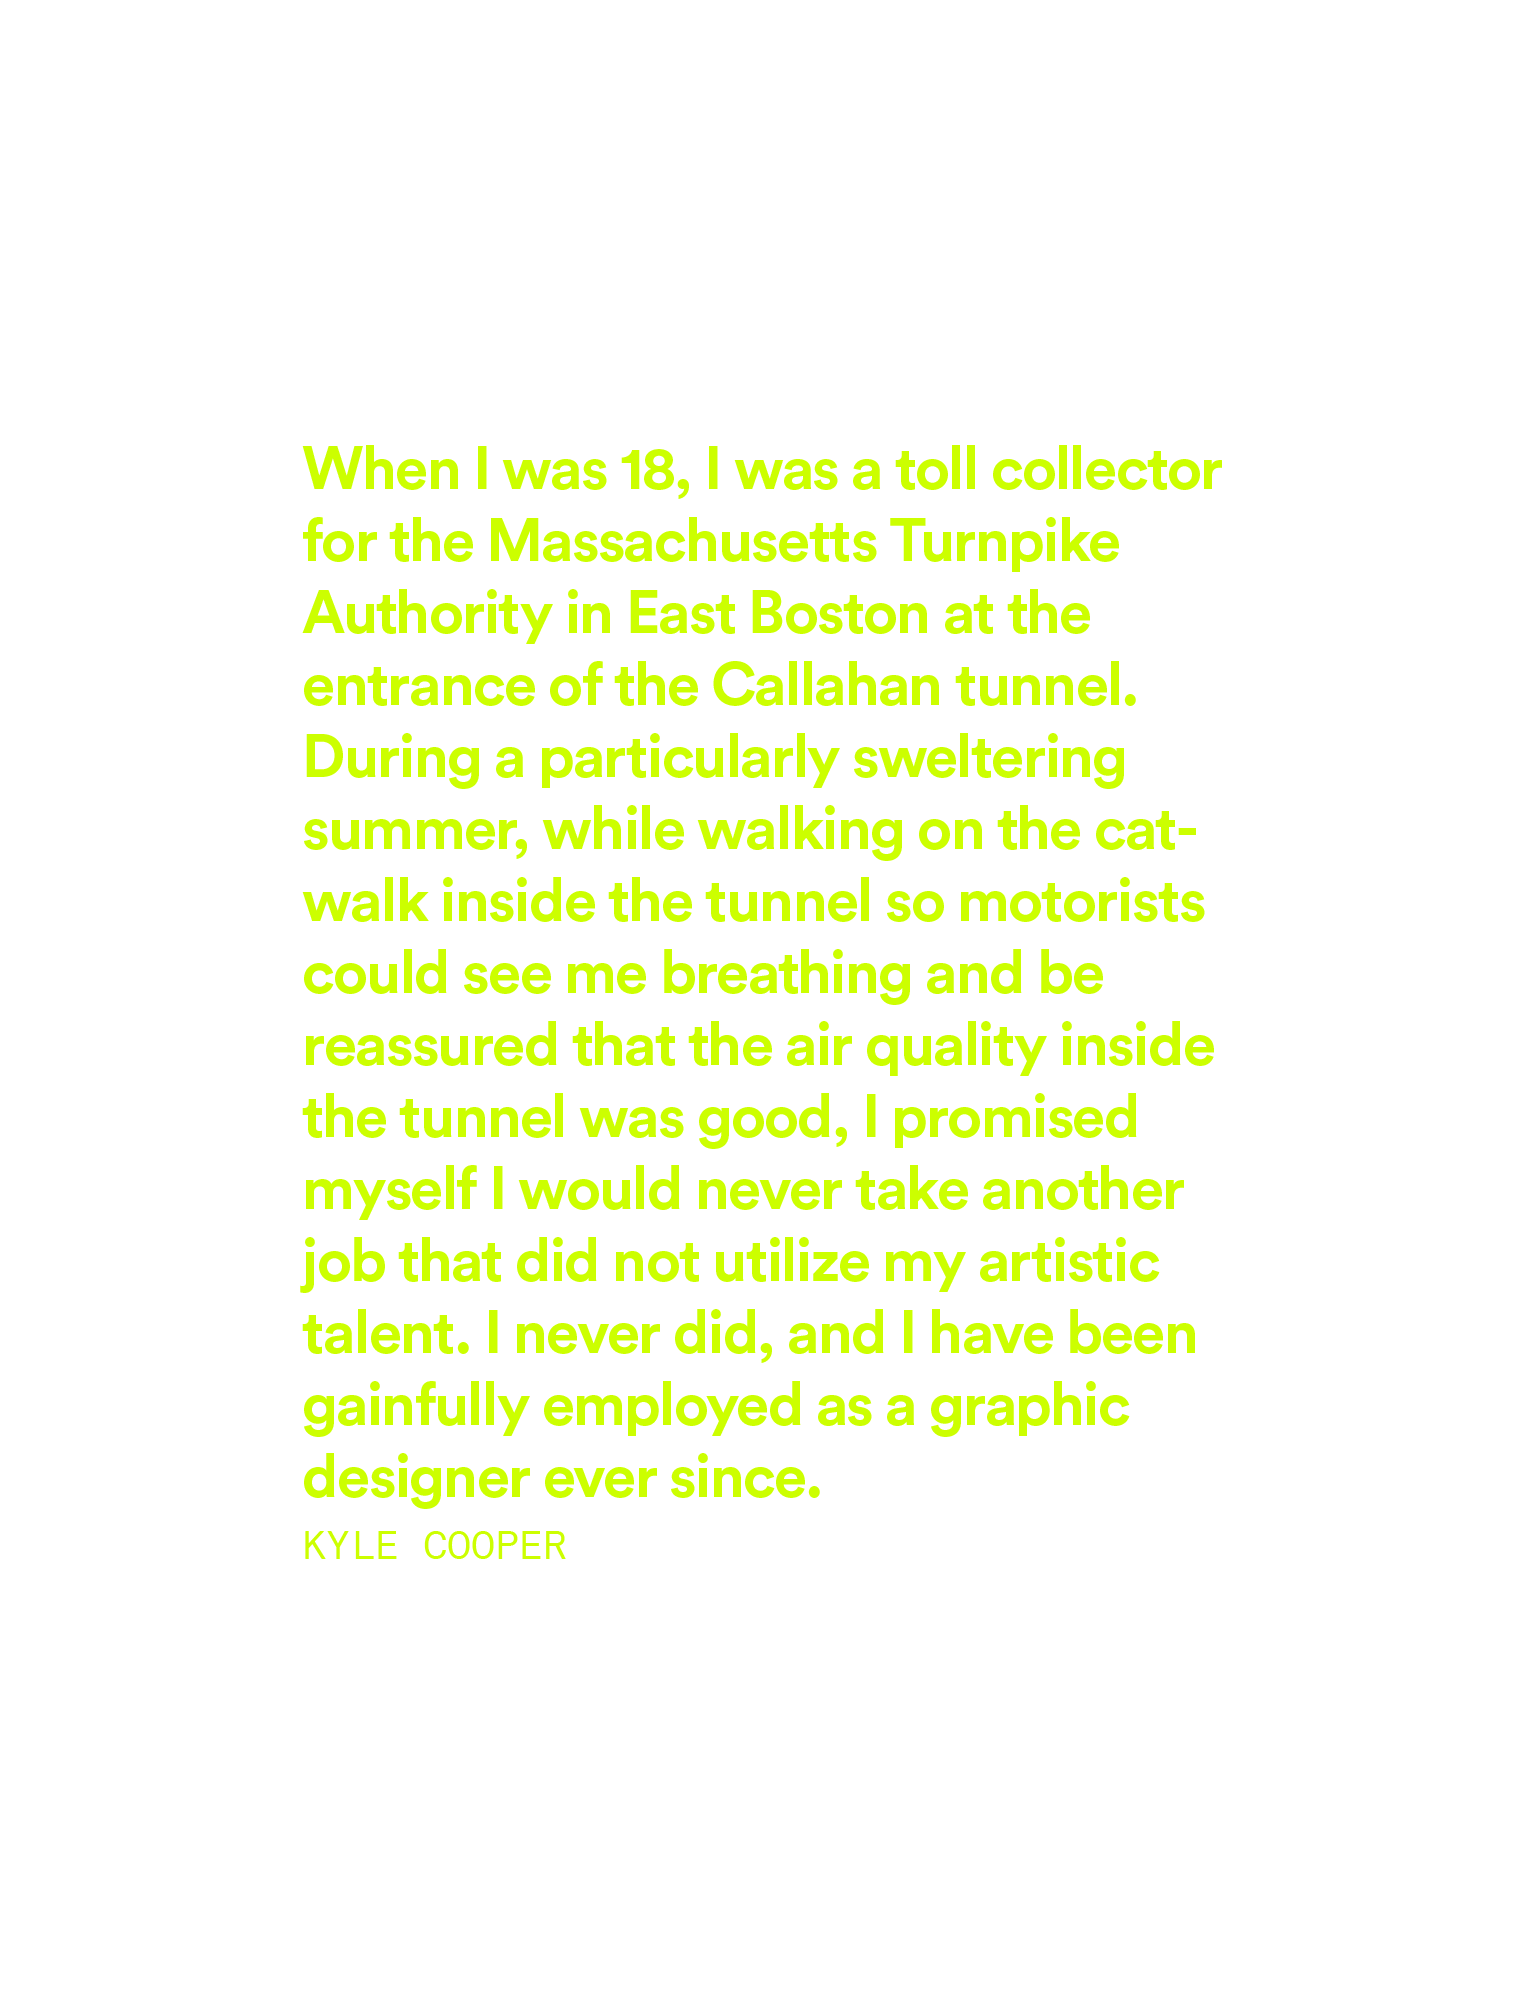
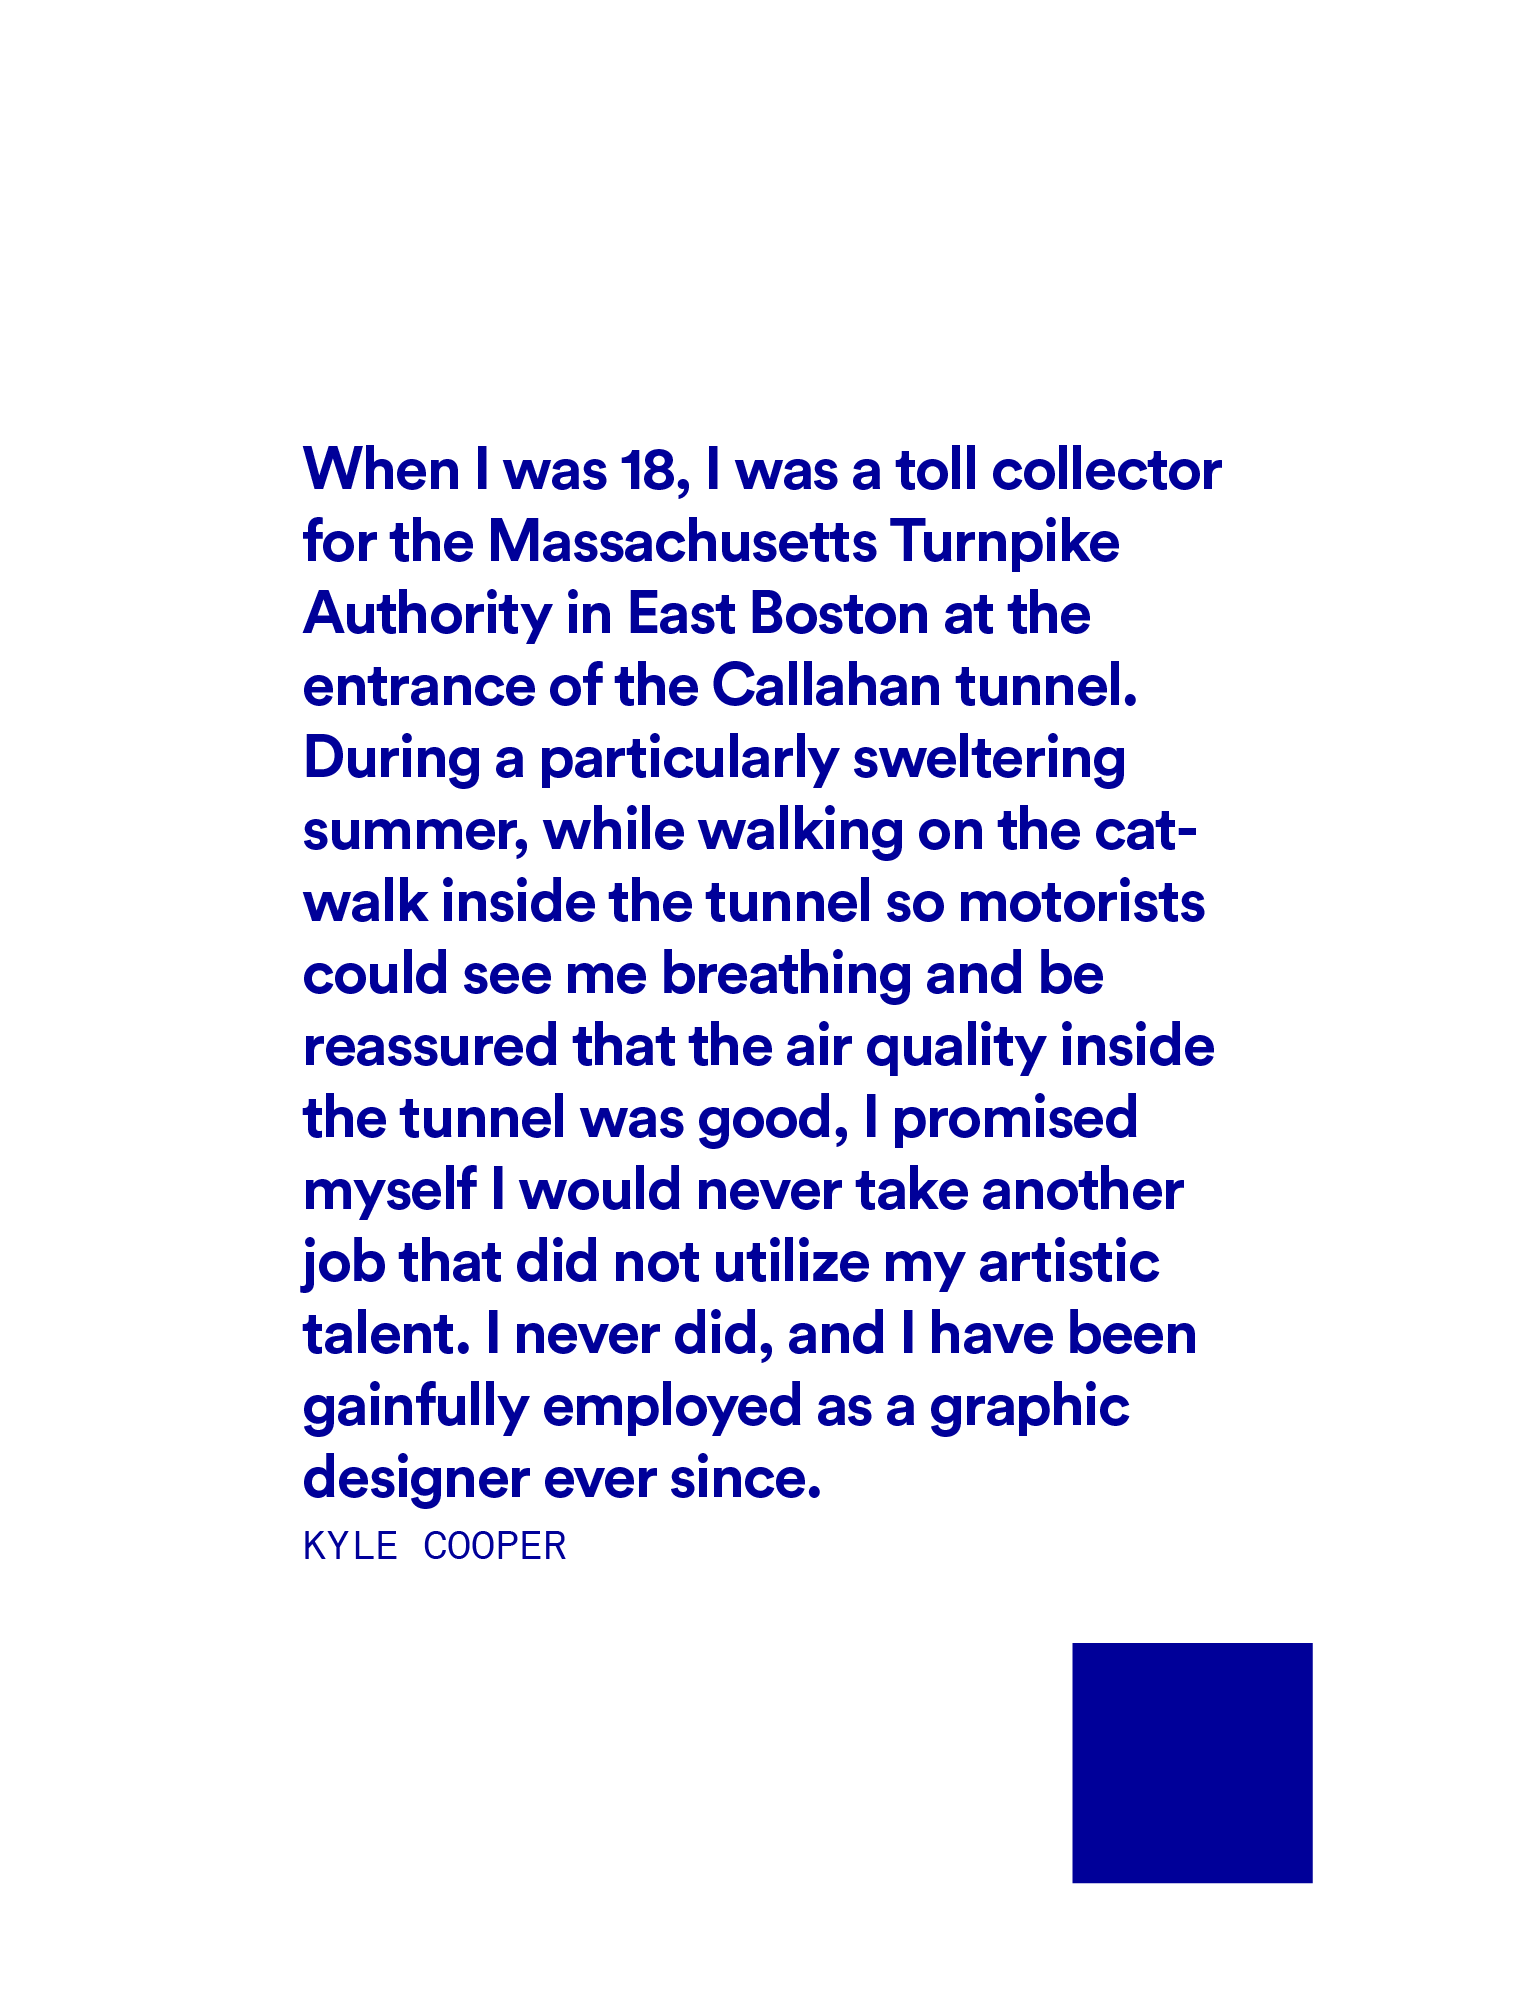
Updated colors

Changed region(s): [[0.1875, 0.2161, 0.8125, 0.7719], [0.6875, 0.8028, 0.875, 0.9572]]

diff --git a/Web/js/main.js b/Web/js/main.js
@@ -63,19 +63,19 @@ $(document).ready( function() {
 			{ r:255, g:108, b:12 , h:255 },
 			{ r:255, g:102, b:255 , h:0 },
 			{ r:102, g:0, b:102 , h:255 },
-			{ r:204, g:255, b:0 , h:0 },
+			{ r:0, g:0, b:153 , h:0 },
 			{ r:247, g:50, b:63 , h:255 },
 			{ r:0, g:255, b:51 , h:0 },
 			{ r:0, g:0, b:255 , h:255 },
 			{ r:0, g:204, b:204 , h:0 },
 			{ r:255, g:0, b:0 , h:255 },
-			{ r:255, g:255, b:0 , h:0 },
+			{ r:102, g:0, b:255 , h:0 },
 			{ r:255, g:0, b:102 , h:255 },
 			{ r:255, g:0, b:153 , h:0 },
 			{ r:0, g:51, b:102 , h:255 },
-			{ r:211, g:210, b:210 , h:0 },
+			{ r:158, g:158, b:158 , h:0 },
 			{ r:102, g:0, b:51 , h:255 },
-			{ r:0, g:255, b:255 , h:0 },
+			{ r:255, g:51, b:0 , h:0 },
 			{ r:51, g:102, b:255 , h:255 },
 			{ r:0, g:255, b:204 , h:0 },
 			{ r:0, g:153, b:0 , h:255 }

diff --git a/Web/css/style.css b/Web/css/style.css
@@ -183,7 +183,7 @@ html, body {
 }
 
 .quoteiPad {
-	height:1620px;
+	/*height:1620px;*/
 }
 
 .quoteInner {

diff --git a/Shared/ClockMode.cpp b/Shared/ClockMode.cpp
@@ -12,8 +12,8 @@
 ClockMode::ClockMode(){
     bChangeModes       = true;
     mode                = STATE_INTERACTIVE;
-    interactiveDuration = 60 * 1000;
-    nameDuration        = 30 * 1000;
+    interactiveDuration = 3 * 1000;
+    nameDuration        = 3 * 1000;
     lastChanged         = 0;
     currentName         = 0;
     letterIndex         = 0;
@@ -100,7 +100,7 @@ void ClockMode::update(){
                     
                     // transition to color
                     nextColor = ofColor(colors[currentName].r, colors[currentName].g, colors[currentName].b);
-                    nextArmColor = ofColor(colors[currentName].a);
+                    nextArmColor = ofColor(255);//colors[currentName].a);
                     //clocks->setColor( ofColor(colors[currentName].r, colors[currentName].g, colors[currentName].b) );
                     //clocks->setArmColor(ofColor(colors[currentName].a));
                     
@@ -167,7 +167,7 @@ void ClockMode::update(){
     //            letterIndex;
                 //cout << "set "<<ks<<":"<<((i+4) - letterIndex)<<endl;
                 float weight = letterIndex == i ? 1.0 : .3;
-                clocks->setClocks(clocks->letters[ks], ind, (ks == "w" || ks == "m")? 3 : 4, 3, weight);
+                clocks->setClocks(clocks->letters[ks], ind, (ks == "w" || ks == "m")? 2 : 4, 4, weight);
                 ind += (ks == "w" || ks == "m")? 6 : 4;
             }
         }
@@ -183,7 +183,7 @@ void ClockMode::update(){
                 char k = names[currentName][letterIndex];
                 string ks = ofToString(k);
                 //float weight = letterIndex == i ? 1.0 : .3;
-                clocks->setClocks(clocks->letters[ks], 3, (ks == "w" || ks == "m")? 2 : 3,  (ks == "w" || ks == "m")? 6 : 4, 1.0);
+                clocks->setClocks(clocks->letters[ks], (ks == "w" || ks == "m")? 2 : 3, 2, (ks == "w" || ks == "m")? 6 : 4, 1.0);
             }
         }
     } else if (mode == STATE_TRANSITION ){
@@ -219,7 +219,7 @@ void ClockMode::update(){
                     char k = names[currentName][letterIndex];
                     string ks = ofToString(k);
                     //float weight = letterIndex == i ? 1.0 : .3;
-                    clocks->setClocks(clocks->letters[ks], (ks == "w" || ks == "m")? 4 : 3, 3, (ks == "w" || ks == "m")? 6 : 4, 1.0);
+                    clocks->setClocks(clocks->letters[ks], (ks == "w" || ks == "m")? 2 : 3, 2, (ks == "w" || ks == "m")? 6 : 4, 1.0);
                 }
             }
         }
